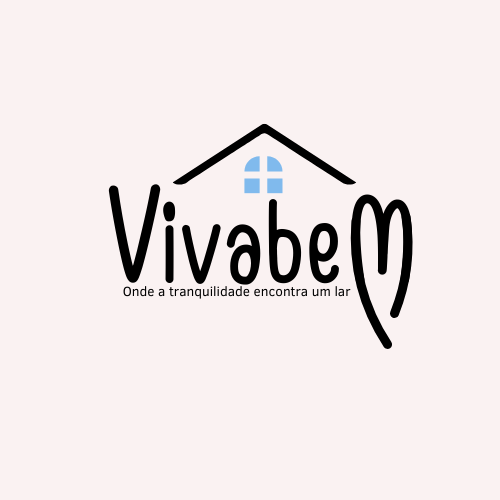
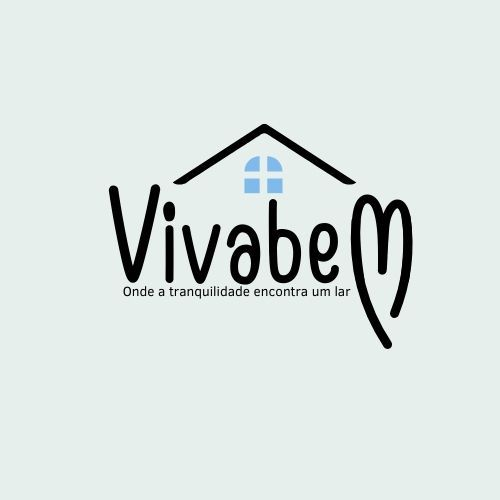
Tabela - Valores e correção das cores header

diff --git a/index.css b/index.css
@@ -10,7 +10,7 @@ header.header {
     position: fixed;
     left: 0;
     top: 0;
-    background-color: #faf2f2;
+    background-color: #e6eeed;
     width: 100%;
     height: 160px;
     display: inline-flex;
@@ -30,7 +30,7 @@ nav{
     font-weight: 700;
     transition: 200ms;
 }.nav a:hover{
-    text-shadow: 3px 3px aqua;
+    color: rgb(138, 138, 138);
     transition: 200ms;
 }
 
@@ -81,13 +81,15 @@ div.page {
     height: 400px;
 }
 
-.planos, tr, td {
+table, th, td {
     border: 1px solid;
 }
 .planos {
     width: 50%;
     height: 300px;
-    border-collapse: collapse;
+}
+.planos * {
+    overflow: hidden;
 }
 table {
     font-family: arial;
@@ -95,12 +97,20 @@ table {
     text-align: center;
     width: 100%;
     height: 100%;
+    border-collapse: collapse;
+    border-radius: 10px;
 }
 .planos #prim{
     width: 20px;
 }
-tr {
-    background-color: #faf2f2;
+tr#prim th {
+    background-color: #e6eeed;
+}
+th {
+    background-color: #dbe6e4;
+}
+td {
+    background-color: #dbe6e4;
 }
 
 
@@ -113,7 +123,7 @@ section.Titulo {
 
 section.Show {
     color: black;
-    background-color: #faf2f2;
+    background-color: #e6eeed;
     display: flex;
     width: 50%;
     height: 300px;
@@ -132,6 +142,16 @@ section.Show div.desc {
     margin: 20px;
     width: 40%;
     overflow: hidden;
+}
+section.Show div.desc button {
+    background-color: #095797;
+    border-radius: 15px;
+    width: 100%;
+    height: 30%;
+    color: white;
+    font-size: 18px;
+    font-weight: 700;
+    border: none;
 }
 section.Show div.imagem {
     height: 100%;
@@ -177,7 +197,7 @@ section.Show div.imagem.mb {
     
     section.Show {
         color: black;
-        background-color: #faf2f2;
+        background-color: #e6eeed;
         display: flex;
         flex-flow: column;
         width: 50%;

diff --git a/Index.html b/Index.html
@@ -56,25 +56,28 @@
             </div>
         </section>
         <div class="spacer G"></div>
-
-        <section class="planos">
-            <table>
-                <tr id="prim">
-                    <td>Plano</td>
-                    <td>Valor</td>
-                    <td>Incluso</td>
-                </tr>
-                <tr>
-                    <td>Mensal</td>
-                </tr>
-                <tr>
-                    <td>Trimestral</td>
-                </tr>
-                <tr>
-                    <td>Anual</td>
-                </tr>
-            </table>
-        </section>
+        <h2>Nossos planos</h2>
+        <div class="spacer"></div>
+            <section class="planos">
+                <table>
+                    <tr id="prim">
+                        <th>Plano</th>
+                        <th>Valor</th>
+                    </tr>
+                    <tr>
+                        <th>Mensal</th>
+                        <td>R$300</td>
+                    </tr>
+                    <tr>
+                        <th>Trimestral</th>
+                        <td>R$810</td>
+                    </tr>
+                    <tr>
+                        <th>Anual</th>
+                        <td>R$2.880</td>
+                    </tr>
+                </table>
+            </section>
 
         <div class="spacer"></div>
 </div>

diff --git a/login.css b/login.css
@@ -8,7 +8,7 @@ body {
 }
 
 .container {
-    background-color: #faf2f2;
+    background-color: #e6eeed;
     padding: 30px;
     border-radius: 5px;
     box-shadow: 0 2px 5px rgba(0, 0, 0, 0.1);
